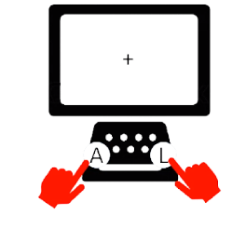
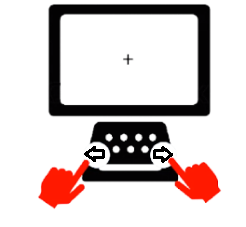
FEAT: do grammar changes

Changed region(s): [[0.5976, 0.6476, 0.7114, 0.7401], [0.3415, 0.6476, 0.4268, 0.7401]]

diff --git a/src/utils/simonValues.js b/src/utils/simonValues.js
@@ -1,5 +1,5 @@
 import example from "../assets/images/example.png";
-import heart1 from "../assets/images/heart_example1.png";
+// import heart1 from "../assets/images/heart_example1.png";
 import heart2 from "../assets/images/heart_example.png";
 import heart3 from "../assets/images/heart_example2.png";
 import keys from "../assets/images/keys.png";
@@ -19,20 +19,8 @@ const instructionsHearts = [
     {
         title: "Te mostraremos un corazón, presiona el botón del mismo lado en que se muestre el corazón.",
         body: "Si ves el corazón de lado derecho, presiona la tecla de lado derecho.",
-        img: heart1
+        img: heart2
     },
-    // {
-    //     title: `Si ves un corazon:
-    //     Aprieta el botón DEL MISMO lado que el corazón`,
-    //     body: "si ves el corazón en este lado: aprieta este boton",
-    //     img: heart2
-    // },
-    // {
-    //     title: `Si ves un corazon:
-    //     Aprieta el botón DEL MISMO lado que el corazón`,
-    //     body: "si ves el corazón en este lado: aprieta este boton",
-    //     img: heart3
-    // },
     {
         title: "¿Estás listo para iniciar?",
         body: `Recuerda, presiona el botón del mismo lado que se muestre el corazón, intenta ser lo más rápido posible al responder. Presiona continuar para iniciar una prueba del ejercicio.`,
@@ -43,31 +31,17 @@ const instructionsHearts = [
 const instructionsFlowers = [
     {
         title: "Bienvenido",
-        body: "Pon tus dedos sobre los botones 'A' y 'L' de tu teclado",
+        body: "Coloca tus dedos índices sobre las teclas izquierda y derecha de tu teclado",
         img: example
     },
     {
-        title: "Te mostraremos unas flores !!",
-        body: `Las flores pueden aparecera la izquierda o a la derecha`,
-        img: flower1
-    },
-    {
-        title: `Si ves la flor:
-        Aprieta el botón del lado OPUESTO de la flor`,
-        body: "si ves la flor en este lado: aprieta este boton",
+        title: "Te mostraremos una flor, presiona el botón del mismo lado en que se muestre la flor",
+        body: `Si ves la flor de lado derecho, presiona la tecla de lado izquierdo.`,
         img: flower2
     },
     {
-        title: `Si ves la flor:
-        Aprieta el botón del lado OPUESTO de la flor`,
-        body: "si ves la flor en este lado: aprieta este boton",
-        img: flower3
-    },
-    {
-        title: "¿Estas listo para jugar?",
-        body: `Recuerda:
-        aprieta el boton del lado OPUESTO de donde veas la flor.
-        Intenta ser lo mas rapido posible al presionar el boton correcto, presiona en iniciar para hacer una prueba`,
+        title: "¿Estás listo para iniciar?",
+        body: `Recuerda, presiona el botón del lado OPUESTO que se muestre la flor, intenta ser lo más rápido posible al responder. Presiona continuar para iniciar una prueba del ejercicio.`,
         img: flower
     }
 ];
@@ -75,7 +49,7 @@ const instructionsFlowers = [
 const instructionsMixto = [
     {
         title: "Vamos a juntar todo!",
-        body: "Pon tus dedos sobre los botones 'A' y 'L' de tu teclado",
+        body: "Coloca tus dedos índices sobre las teclas izquierda y derecha de tu teclado",
         img: example
     },
     {
@@ -116,6 +90,7 @@ const instructionsMixto = [
         img: mixto
     }
 ];
+
 
 const instructionStart = [
     {

diff --git a/src/pages/Stop.js b/src/pages/Stop.js
@@ -205,10 +205,10 @@ export default function Stop() {
             if (saveResponse(keyPress)) {
                 if (gameData.type === "test") {
                     if ((keyPress !== gameData.key) && !gameData.signal) {
-                        const errorMsg = `Debes presionar la tecla correspondiente, en este caso es la tecla ${keyPress === "A" ? "L" : "A"}`; 
+                        const errorMsg = `Debes presionar la tecla correspondiente, en este caso la tecla ${keyPress === "A" ? "L" : "A"}`; 
                         clearInterval(intVal);
                         swal({
-                            title: "Error",
+                            title: "¡ERROR!",
                             text: errorMsg,
                             icon: "error",
                             button: "ok",
@@ -218,7 +218,7 @@ export default function Stop() {
                     } else if ((keyPress === gameData.key) && !gameData.signal) {
                         clearInterval(intVal);
                         swal({
-                            title: "Correcto !!",
+                            title: "¡Correcto!",
                             text: "Buen trabajo",
                             icon: "success",
                             timer: 1200,
@@ -227,10 +227,10 @@ export default function Stop() {
                             clearImage();
                         });
                     } else if (gameData.signal) {
-                        const errorMsg = "Cuando suena la senal de stop, no debes precionar ninguna tecla";
+                        const errorMsg = "Cuando suena la señal de alto, no debes presionar ninguna tecla.";
                         clearInterval(intVal);
                         swal({
-                            title: "Error",
+                            title: "¡ERROR!",
                             text: errorMsg,
                             icon: "error",
                             button: "ok",
@@ -269,9 +269,9 @@ export default function Stop() {
                          saveResponse(null);
                          if (gameData.type === "test" && !gameData.signal) {
                              clearInterval(intVal);
-                             const errorMsg = `Ups, se te ha pasado el tiempo, procura ser mas rapido en tu respuesta`;
+                             const errorMsg = `Se te ha pasado el tiempo, procura ser más rápido en tu siguiente respuesta.`;
                              swal({
-                                 title: "Error",
+                                 title: "¡ERROR!",
                                  text: errorMsg,
                                  icon: "error",
                                  button: "ok",

diff --git a/src/utils/stopValues.js b/src/utils/stopValues.js
@@ -6,25 +6,23 @@ import left from "../assets/images/left.png";
 
 const instructions = [
 {
-    title: "Bienvenido Stop test",
-    body: `En el test, aparecen senales, mostrandote una direccion.
-    Para la direccion izquierda, debes precionar la tecla A, para la direccion derecha
-    debes presionar la tecla L, cuando escuches la senal de stop, no debes presionar ninguna tecla`,
+    title: "Bienvenido",
+    body: `A continuación, se mostrará una flecha, señalando una dirección específica.
+    Si la flecha se encuentra hacia la izquierda debes presionar la tecla de lado izquierdo, si la flecha se encuentra hacia la derecha debes presionar la tecla de lado derecho. Si escuchas la señal de alto, no debes presionar ninguna tecla, sin importar hacia donde señale.
+    `,
     img: example
 },
 {
-    title: "Senal de stop",
-    body: `Presiona el icono la bocina para escuchar la senal de stop, si no logras escucharla
-    correctamente, ajusta tu volumen, da clic, de nuevo en el icono, si todo esta bien, presiona en continuar`,
+    title: "Señal de alto",
+    body: `Presiona el icono la bocina para escuchar la señal de alto, si no logras escucharla correctamente solicita apoyo al aplicador, si escuchas la señal claramente, presiona en Iniciar.`,
     img: signal
 }
 ];
 
 const instructionStart = [
     {
-        title: "Juguemos un poco mas !!",
-        body: `Pero esta vez no te diremos si es correcto.
-        presiona el boton de continuar para empezar`,
+        title: "Juguemos un poco más",
+        body: `Esta vez no te diremos si es correcto o incorrecto. Presiona el botón de continuar para iniciar el ejercicio.`,
         img: example
     }
 ];

diff --git a/src/pages/MMST.js b/src/pages/MMST.js
@@ -115,6 +115,8 @@ const audio = [
 ];
 
 let whiteVolume = 0.78;
+const whiteS = new Audio(whiteSound);
+whiteS.volume = whiteVolume;
 
 export default function MMST() {
 
@@ -124,8 +126,6 @@ export default function MMST() {
     const [step, setStep] = useState(DEFAULT_STEP);
     const [score, setScore] = useState(0);
     const [count, setCount] = useState(0);
-    const whiteS = new Audio(whiteSound);
-    whiteS.volume = whiteVolume;
 
     const navigate = useNavigate();
     const params = useParams();
@@ -165,6 +165,7 @@ export default function MMST() {
             const newDataStep = mmstSteps[newStep];
             setStep(newDataStep);
         } else {
+            console.log("sound", whiteS);
             whiteS.pause();
             swal({
                 title: "Felicidades, has completado la prueba",
